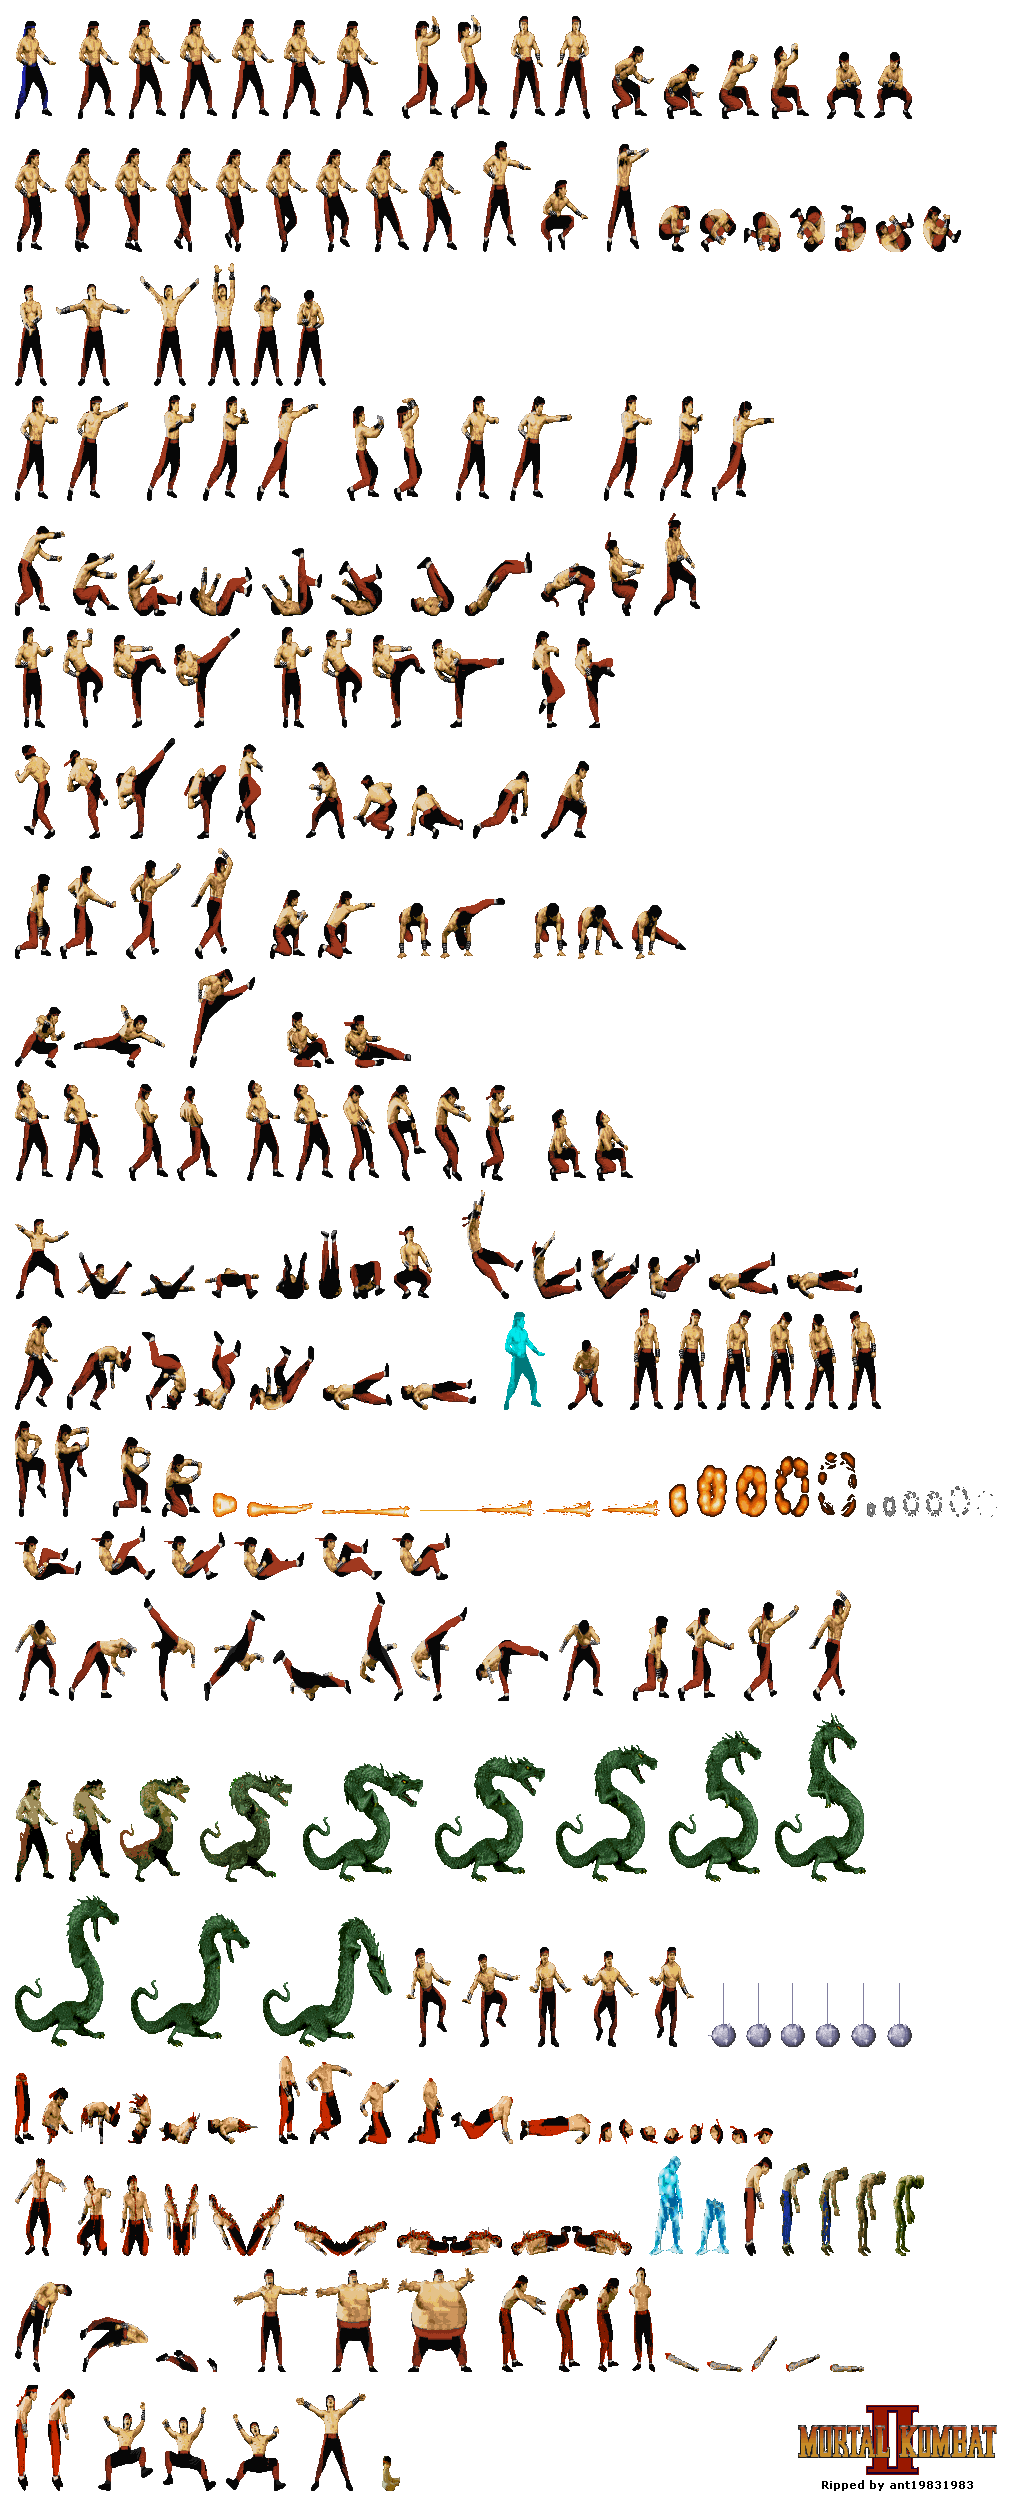
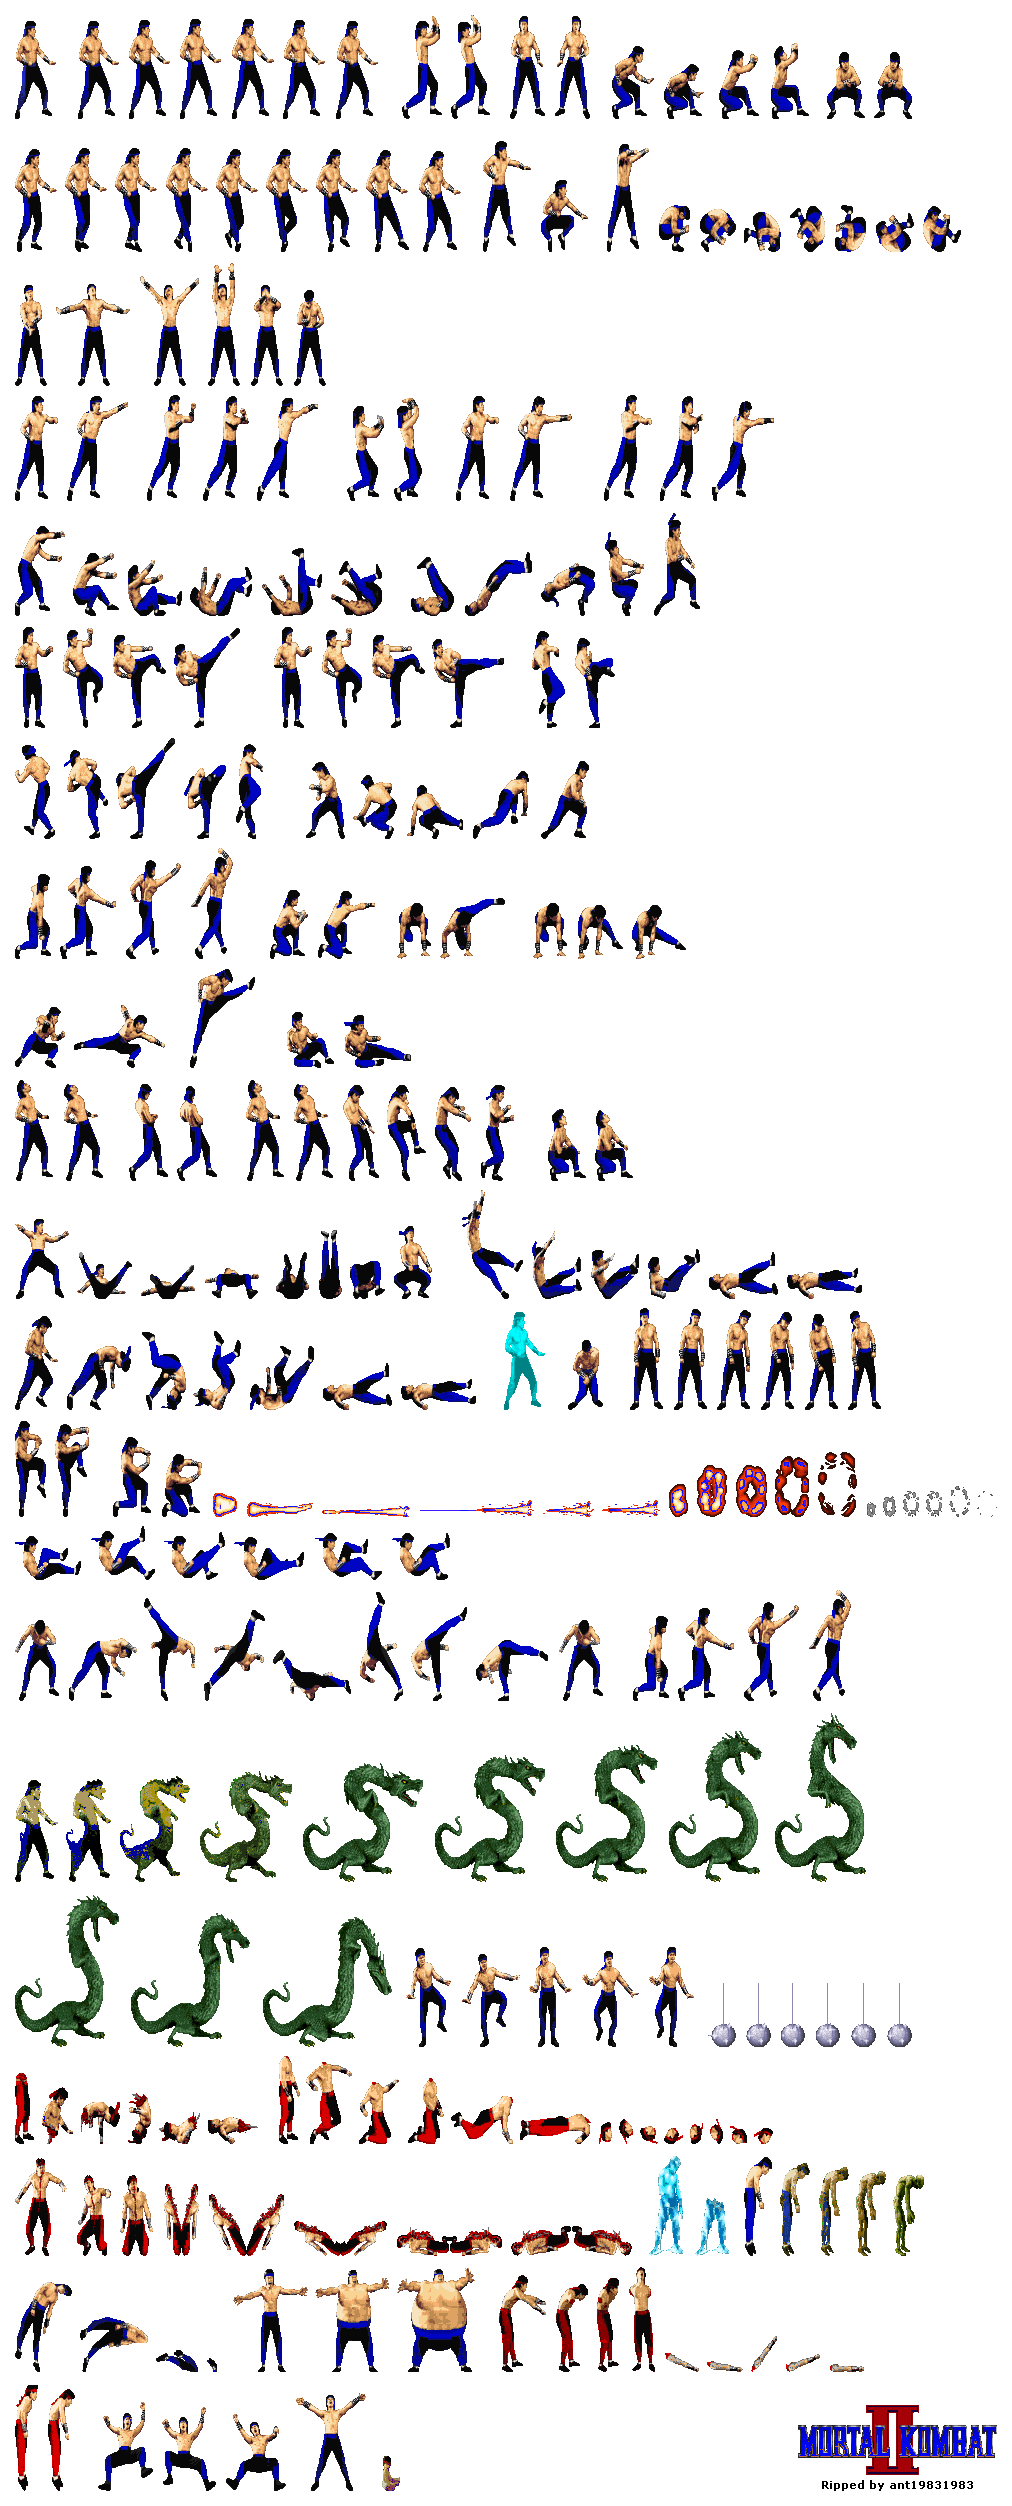
liu kang est pret

diff --git a/stats.js b/stats.js
@@ -84,7 +84,7 @@ liukang_coups.set("lkick",{slag : 8, fdur : 8, elag : 14, degats : 5, hitstun : 
 liukang_coups.set("mkick",{slag : 14, fdur : 12, elag : 15, degats : 8, hitstun : 26, hurtx : 1.5, hurty : 0, hitboxxs : 18, hitboxxe : 51, hitboxys : 1, hitboxye : 98, hitboxxouv : 24, blood_height : 5, blockstun : 14, blockx : 2.5, hiteffect : "none", hitboxxeyscaling : 0, hitlag : 7, hitsound : "mhit", blood : "lblood", damageonblock : 1, disponibility : "stand", voiceline : "lmov", movx : 0, coupwav : "coup"});
 liukang_coups.set("hkick",{slag : 10, fdur : 7, elag : 16, degats : 12, hitstun : 38, hurtx : 3.3, hurty : 7, hitboxxs : 20, hitboxxe : 45, hitboxys : 1, hitboxye : 106, hitboxxouv : 30, blood_height : 8, blockstun : 16, blockx : 3.3, hiteffect : "fall", hitboxxeyscaling : 0, hitlag : 10, hitsound : "hhit", blood : "mblood", damageonblock : 1, disponibility : "stand", voiceline : "hmov", movx : 2.3, coupwav : "coup"});
 liukang_coups.set("clpunch",{slag : 6, fdur : 6, elag : 8, degats : 3, hitstun : 20, hurtx : 1, hurty : 0, hitboxxs : 10, hitboxxe : 42,hitboxys : -1, hitboxye : -1, hitboxxouv : 14, blood_height : 0, blockstun : 10, blockx : 1.3, hiteffect : "none", hitboxxeyscaling : 0, hitlag : 5, hitsound : "lhit", blood : "lblood", damageonblock : 1, disponibility : "crouch", voiceline : "lmov", movx : 0, coupwav : "coup"});
-liukang_coups.set("huppercut",{slag : 10, fdur : 10, elag : 25, degats : 150, hitstun : 60, hurtx : 3.2, hurty : 11, hitboxxs : 20, hitboxxe : 46, hitboxys : 1, hitboxye : 120, hitboxxouv : 15, blood_height : 0, blockstun : 16, blockx : 2.5, hiteffect : "fall", hitboxxeyscaling : 0.25, hitlag : 12, hitsound : "hhit", blood : "mblood", damageonblock : 1, disponibility : "crouch", voiceline : "hmov", movx : 0, coupwav : "coup"});
+liukang_coups.set("huppercut",{slag : 10, fdur : 10, elag : 25, degats : 15, hitstun : 60, hurtx : 3.2, hurty : 11, hitboxxs : 20, hitboxxe : 46, hitboxys : 1, hitboxye : 120, hitboxxouv : 15, blood_height : 0, blockstun : 16, blockx : 2.5, hiteffect : "fall", hitboxxeyscaling : 0.25, hitlag : 12, hitsound : "hhit", blood : "mblood", damageonblock : 1, disponibility : "crouch", voiceline : "hmov", movx : 0, coupwav : "coup"});
 liukang_coups.set("clkick",{slag : 5, fdur : 6, elag : 8, degats : 4, hitstun : 20, hurtx : 1, hurty : 0, hitboxxs : 10, hitboxxe : 45,hitboxys : -45, hitboxye : -20, hitboxxouv : 14, blood_height : 0, blockstun : 10, blockx : 0.8, hiteffect : "none", hitboxxeyscaling : 0, hitlag : 5, hitsound : "lhit", blood : "lblood", damageonblock : 1, disponibility : "crouch", voiceline : "lmov", movx : 0, coupwav : "coup"});
 liukang_coups.set("cmkick",{slag : 9, fdur : 7, elag : 12, degats : 6, hitstun : 22, hurtx : 1, hurty : 0, hitboxxs : 10, hitboxxe : 45,hitboxys : -1, hitboxye : -20, hitboxxouv : 22, blood_height : 0, blockstun : 12, blockx : 1.9, hiteffect : "none", hitboxxeyscaling : 0, hitlag : 7, hitsound : "mhit", blood : "lblood", damageonblock : 1, disponibility : "crouch", voiceline : "lmov", movx : 0, coupwav : "coup"});
 liukang_coups.set("jkick",{slag : 8, fdur : 25, elag : 4, degats : 9, hitstun : 35, hurtx : 3.4, hurty : 5, hitboxxs : 0, hitboxxe : 56,hitboxys : -65, hitboxye : 5, hitboxxouv : 22, blood_height : 0, landinglag : 8, blockstun : 10, blockx : 2.3, hiteffect : "fall", hitboxxeyscaling : -1, hitlag : 8, hitsound : "lhit", blood : "lblood", damageonblock : 1, disponibility : "air", voiceline : "mmov", movx : 0, coupwav : "coup"});

diff --git a/home.js b/home.js
@@ -1836,8 +1836,8 @@ function main(){
 						this.costume = "huppercut5"
 					}
 					if(this.fatality==49){
-						if(this.memoryslot>=5){
-							other.decapitate(1.8+this.memoryslot*0.3);this.poing=2;
+						if(this.memoryslot>=4){
+							other.decapitate(2+this.memoryslot*0.4);this.poing=2;
 							play_sound_eff("hhit");
 							lag_game(10);
 							shake_screen(12,6);
@@ -2555,12 +2555,13 @@ function main(){
 		chartimer = (chartimer+1)%(chartimercycle*2);
 		ctx.fillStyle = "black";
 		ctx.fillRect(0,0,1024,576);
+		var leftside = 112;
 		//ctx.scale(2.32,2.32);
 		//ctx.drawImage(characterscreenpng,92,0);
 		//ctx.setTransform(1, 0, 0, 1, 0, 0);
 		ctx.scale(3,3);
 		for(var i=0;i<liste_persos.length;i++){
-			ctx.drawImage(characteristics.get(liste_persos[i]).icon,128+24*i,57);
+			ctx.drawImage(characteristics.get(liste_persos[i]).icon,leftside+24*i,57);
 		}
 		ctx.setTransform(1, 0, 0, 1, 0, 0);
 		ctx.scale(2,2);
@@ -2586,11 +2587,11 @@ function main(){
 		ctx.scale(1,1);
 		if(chartimer<chartimercycle || persolocked[0]){
 			ctx.strokeStyle = "red";
-			ctx.strokeRect(384+72*persosovered[0],171,63,96);
+			ctx.strokeRect(leftside*3+72*persosovered[0],171,63,96);
 		}
 		if(secondplayerchosescharac && ((chartimer>=chartimercycle && persosovered[0]==persosovered[1]) || (chartimer<chartimercycle && persosovered[0]!=persosovered[1]) || persolocked[1])){
 			ctx.strokeStyle = "green";
-			ctx.strokeRect(384+72*persosovered[1],171,63,96);
+			ctx.strokeRect(leftside*3+72*persosovered[1],171,63,96);
 		}
 
 		

diff --git a/image_loader.js b/image_loader.js
@@ -13,7 +13,7 @@ var lifebarpng=new Image();lifebarpng.src = 'ressource/ui/barlife.png';
 	var sub2png = new Image();sub2png.src = 'ressource/characters/subzero2.png';
     var subskins = [subpng,sub2png];
 	var liupng = new Image();liupng.src = 'ressource/characters/liukang.png';
-	var liu2png = new Image();liu2png.src = 'ressource/characters/liukang2.png';
+	var liu2png = new Image();liu2png.src = 'ressource/characters/liukang3.png';
 	var liuskins = [liupng,liu2png];
 	var shaopng = new Image();shaopng.src = 'ressource/characters/shaokahn.png';
 	var shaoskins = [shaopng,shaopng];
